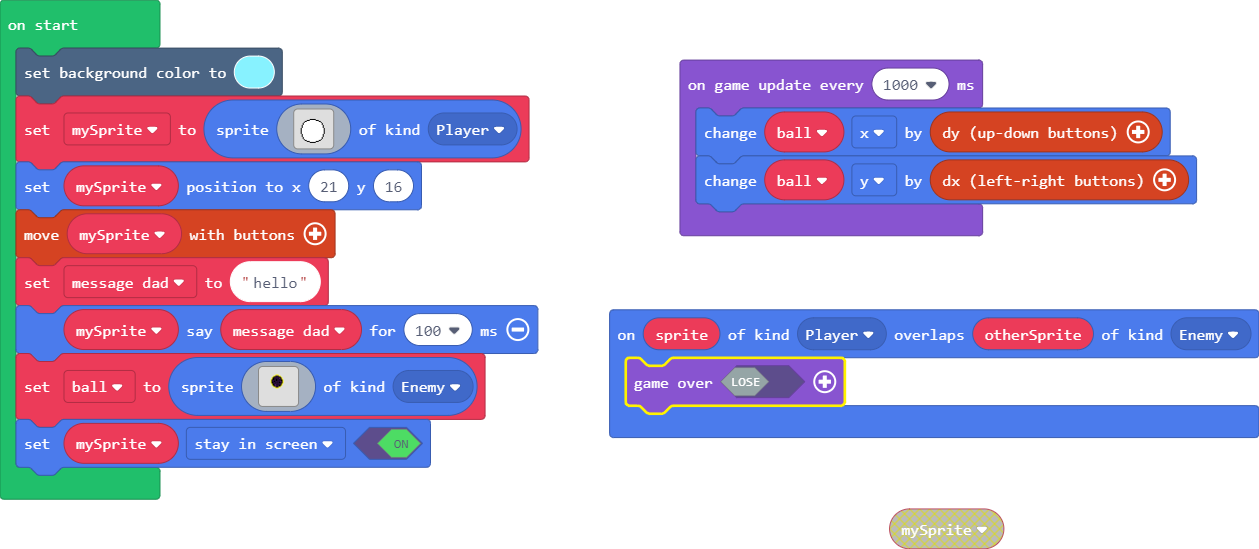
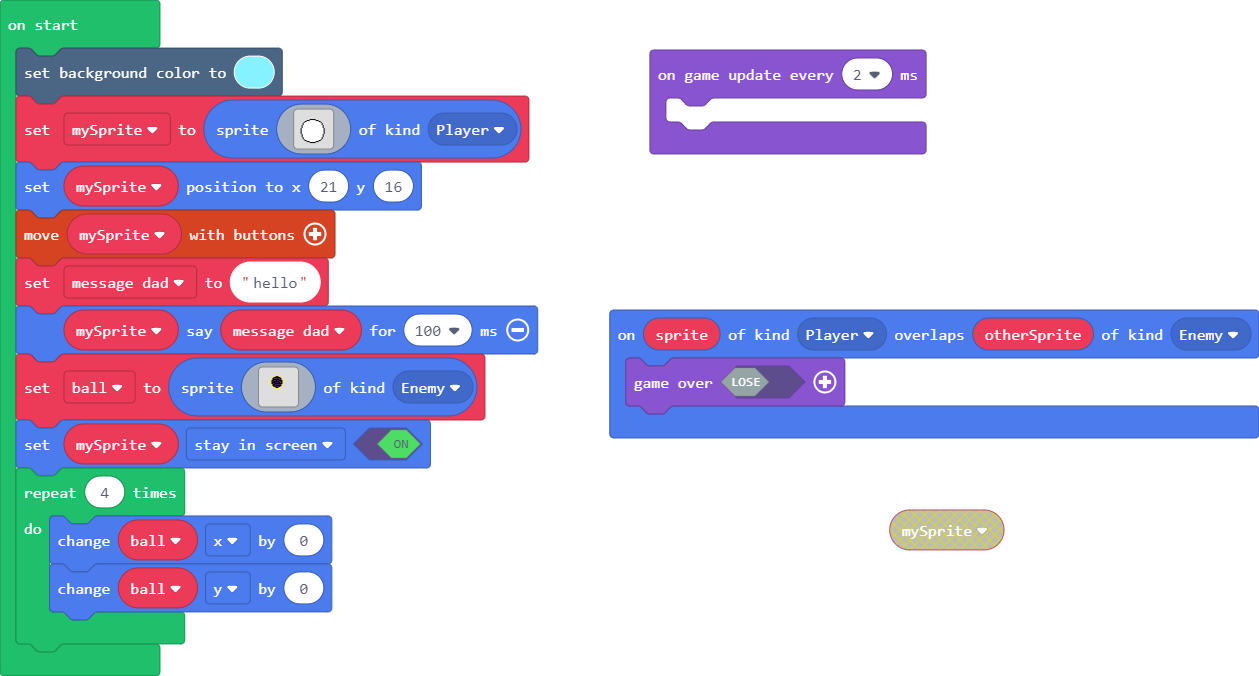
Update main.blocks, main.ts

diff --git a/main.ts b/main.ts
@@ -75,7 +75,10 @@ let ball = sprites.create(img`
 . . . . . . . . . . . . . . . . 
 `, SpriteKind.Enemy)
 mySprite.setFlag(SpriteFlag.StayInScreen, true)
-game.onUpdateInterval(1000, function () {
-    ball.x += controller.dy()
-    ball.y += controller.dx()
+for (let index = 0; index < 4; index++) {
+    ball.x += 0
+    ball.y += 0
+}
+game.onUpdateInterval(2, function () {
+	
 })
